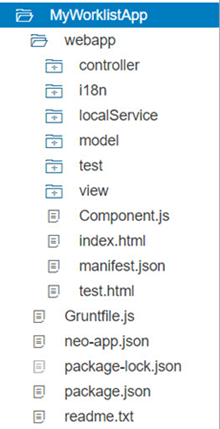
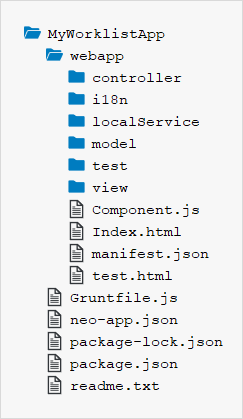
OpenUI5 Documentation Update 25.09.2020

Changed region(s): [[0.0, 0.0, 1.0, 1.0]]

diff --git a/docs/Step_1_(Option_1)_Creating_the_Initial_App_with_an_App_Template_in_SAP_Web_IDE_0c5dc93.md b/docs/Step_1_(Option_1)_Creating_the_Initial_App_with_an_App_Template_in_SAP_Web_IDE_0c5dc93.md
@@ -91,126 +91,11 @@ The worklist app<a name="loio0c5dc937271f4f56b5e7d54676199860__fig_ohj_bqh_b5"/>
 
     A new folder `MyWorklistApp` is now available in your local workspace. It contains the following files and folders of the initial app:
 
-    `  
-                                           
-                                           
-                                           
-                                           
-                                           
-                                      MyWorklistApp`  
-     `     
-                                           
-                                           
-                                           
-                                           
-                                           
-                                      webapp`  
-     `        
-                                           
-                                           
-                                           
-                                           
-                                           
-                                      controller`  
-     `        
-                                           
-                                           
-                                           
-                                           
-                                           
-                                      i18n`  
-     `        
-                                           
-                                           
-                                           
-                                           
-                                           
-                                      localService`  
-     `        
-                                           
-                                           
-                                           
-                                           
-                                           
-                                      model`  
-     `        
-                                           
-                                           
-                                           
-                                           
-                                           
-                                      test`  
-     `        
-                                           
-                                           
-                                           
-                                           
-                                           
-                                      view`  
-     `        
-                                           
-                                           
-                                           
-                                           
-                                           
-                                      Component.js`  
-     `        
-                                           
-                                           
-                                           
-                                           
-                                           
-                                      Index.html`  
-     `        
-                                           
-                                           
-                                           
-                                           
-                                           
-                                      manifest.json`  
-     `        
-                                           
-                                           
-                                           
-                                           
-                                           
-                                      test.html`  
-     `     
-                                           
-                                           
-                                           
-                                           
-                                           
-                                      Gruntfile.js`  
-     `     
-                                           
-                                           
-                                           
-                                           
-                                           
-                                      neo-app.json`  
-     `     
-                                           
-                                           
-                                           
-                                           
-                                           
-                                      package-lock.json`  
-     `     
-                                           
-                                           
-                                           
-                                           
-                                           
-                                      package.json`  
-     `     
-                                           
-                                           
-                                           
-                                           
-                                           
-                                      readme.txt`  
-     
+       
+      
+    Folder structure of the initial project<a name="loio0c5dc937271f4f56b5e7d54676199860__fig_j5n_pzh_b5"/>
+
+     ![](loio7f6899e87d8240d5bd3fc8594e148714_LowRes.png "Folder structure of the initial project") 
 
     > Note:
     > The auto-generated files `Gruntfile.js`, `package-lock.json`, and `package.json` are only necessary for working with SAP Web IDE or a local IDE. They are not included in case you download the example code from the *Samples*.

diff --git a/docs/Performance_Speed_Up_Your_App_408b40e.md b/docs/Performance_Speed_Up_Your_App_408b40e.md
@@ -375,6 +375,11 @@ For more information, see [Manifest Model Preload](Manifest_Model_Preload_26ba6a
 
 To ensure fast loading times for **SAP Fiori applications started from the SAP Fiori launchpad**, the OData metadata is cached on the web browser using cache tokens. The tokens are added with the parameter `sap-context-token` to the URL of metadata requests. Please check via the developer tools of your browser \(e.g. the Network tab in the Google Chrome developer tools\) if the token has been appended to the request URL.
 
+> Note:
+> This feature is currently only supported for ABAP back ends.
+> 
+> 
+
 **Additional Information:**
 
 -   [Cache Buster for OData Metadata of SAP Fiori Apps](https://help.sap.com/viewer/a7b390faab1140c087b8926571e942b7/7.52.0/en-US/876e43a272cc45cb82dea640edff0ab2.html)
